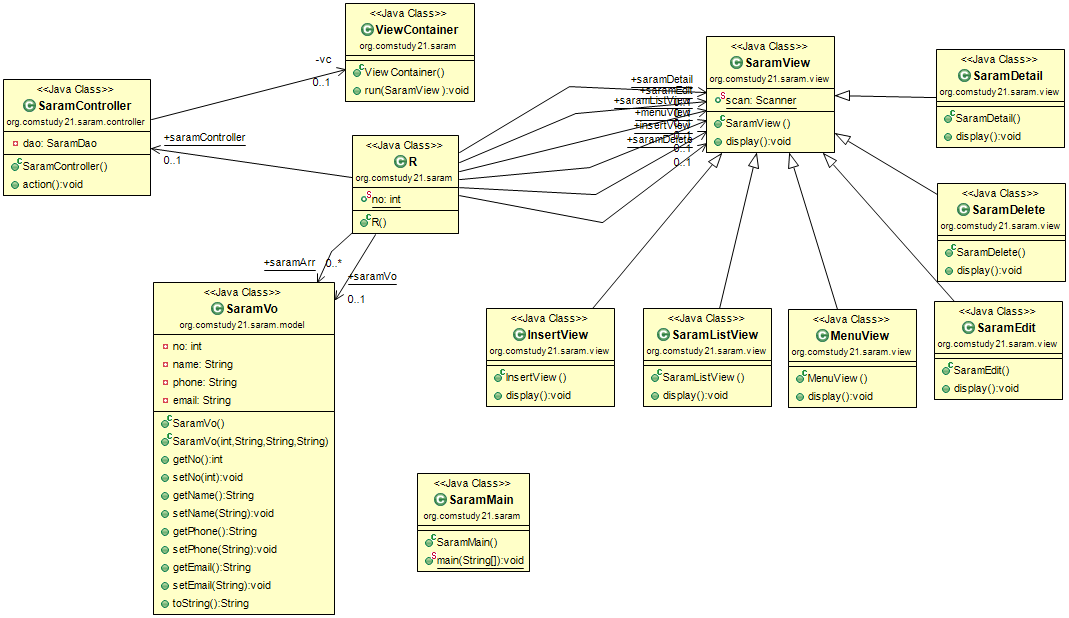
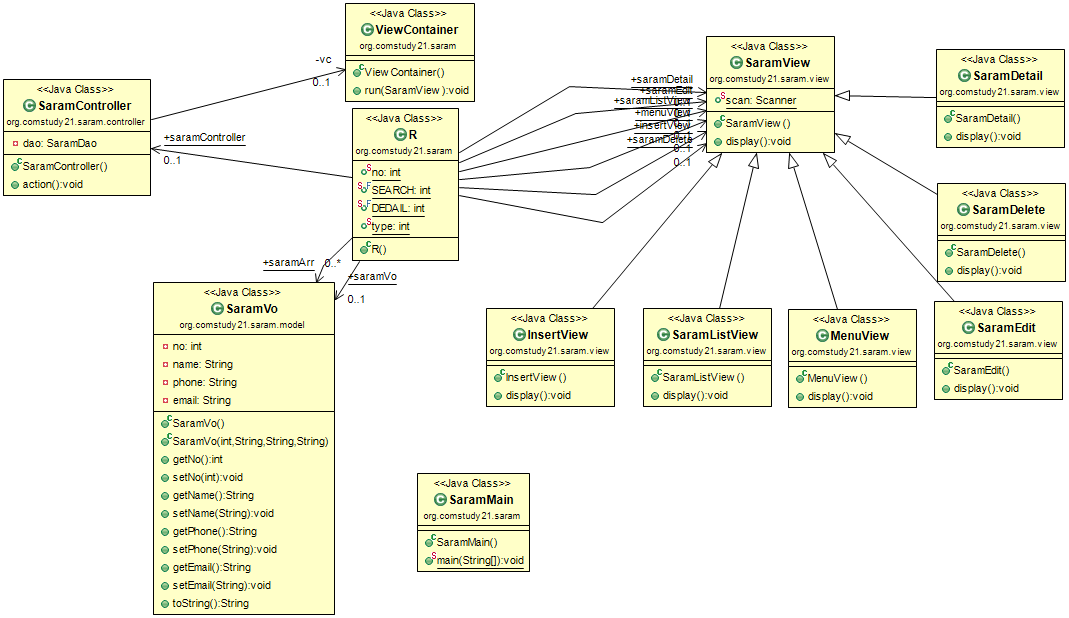
saram mvc proj step03

Changed region(s): [[0.247, 0.1537, 0.4322, 0.4612]]

diff --git a/src/org/comstudy21/saram/view/SaramDetail.java b/src/org/comstudy21/saram/view/SaramDetail.java
@@ -1,12 +1,20 @@
 package org.comstudy21.saram.view;
 
+import org.comstudy21.saram.R;
+import org.comstudy21.saram.model.SaramVo;
+
 public class SaramDetail extends SaramView {
 	@Override
 	public void display() {
 		if(R.type == R.SEARCH) {
 			System.out.println("::::: 사람 정보 검색 :::::");
+			System.out.print("검색 할 이름>> ");
+			String name = scan.next();
+			R.saramVo = new SaramVo(0, name, null, null);
+			// controller로 이동
 		} else {
 			System.out.println("::::: 사람 정보 상세보기 :::::");
+			System.out.println(R.saramVo);
 		}
 	}
 }

diff --git a/src/org/comstudy21/saram/controller/SaramController.java b/src/org/comstudy21/saram/controller/SaramController.java
@@ -23,7 +23,13 @@ public class SaramController {
 			R.saramArr = dao.selectAll();
 			vc.run(R.saramListView); 
 			break;
-		case 3 : vc.run(R.saramDetail); break;
+		case 3 : 
+			R.type = R.SEARCH;
+			vc.run(R.saramDetail);
+			R.type = R.DEDAIL;
+			R.saramVo = dao.selectOne(R.saramVo);
+			vc.run(R.saramDetail); 
+			break;
 		case 4 : vc.run(R.saramEdit); break;
 		case 5 : vc.run(R.saramDelete); break;
 		case 6 : System.out.println("프로그램 종료"); System.exit(0); break;

diff --git a/src/org/comstudy21/saram/R.java b/src/org/comstudy21/saram/R.java
@@ -15,6 +15,9 @@ public class R {
 	public static SaramVo saramVo;
 	public static SaramVo[] saramArr;
 	
+	public static final int SEARCH=0, DEDAIL=1;
+	public static int type = 0;
+	
 	public static final SaramView menuView = new MenuView();
 	
 	public static final SaramView insertView = new InsertView();
